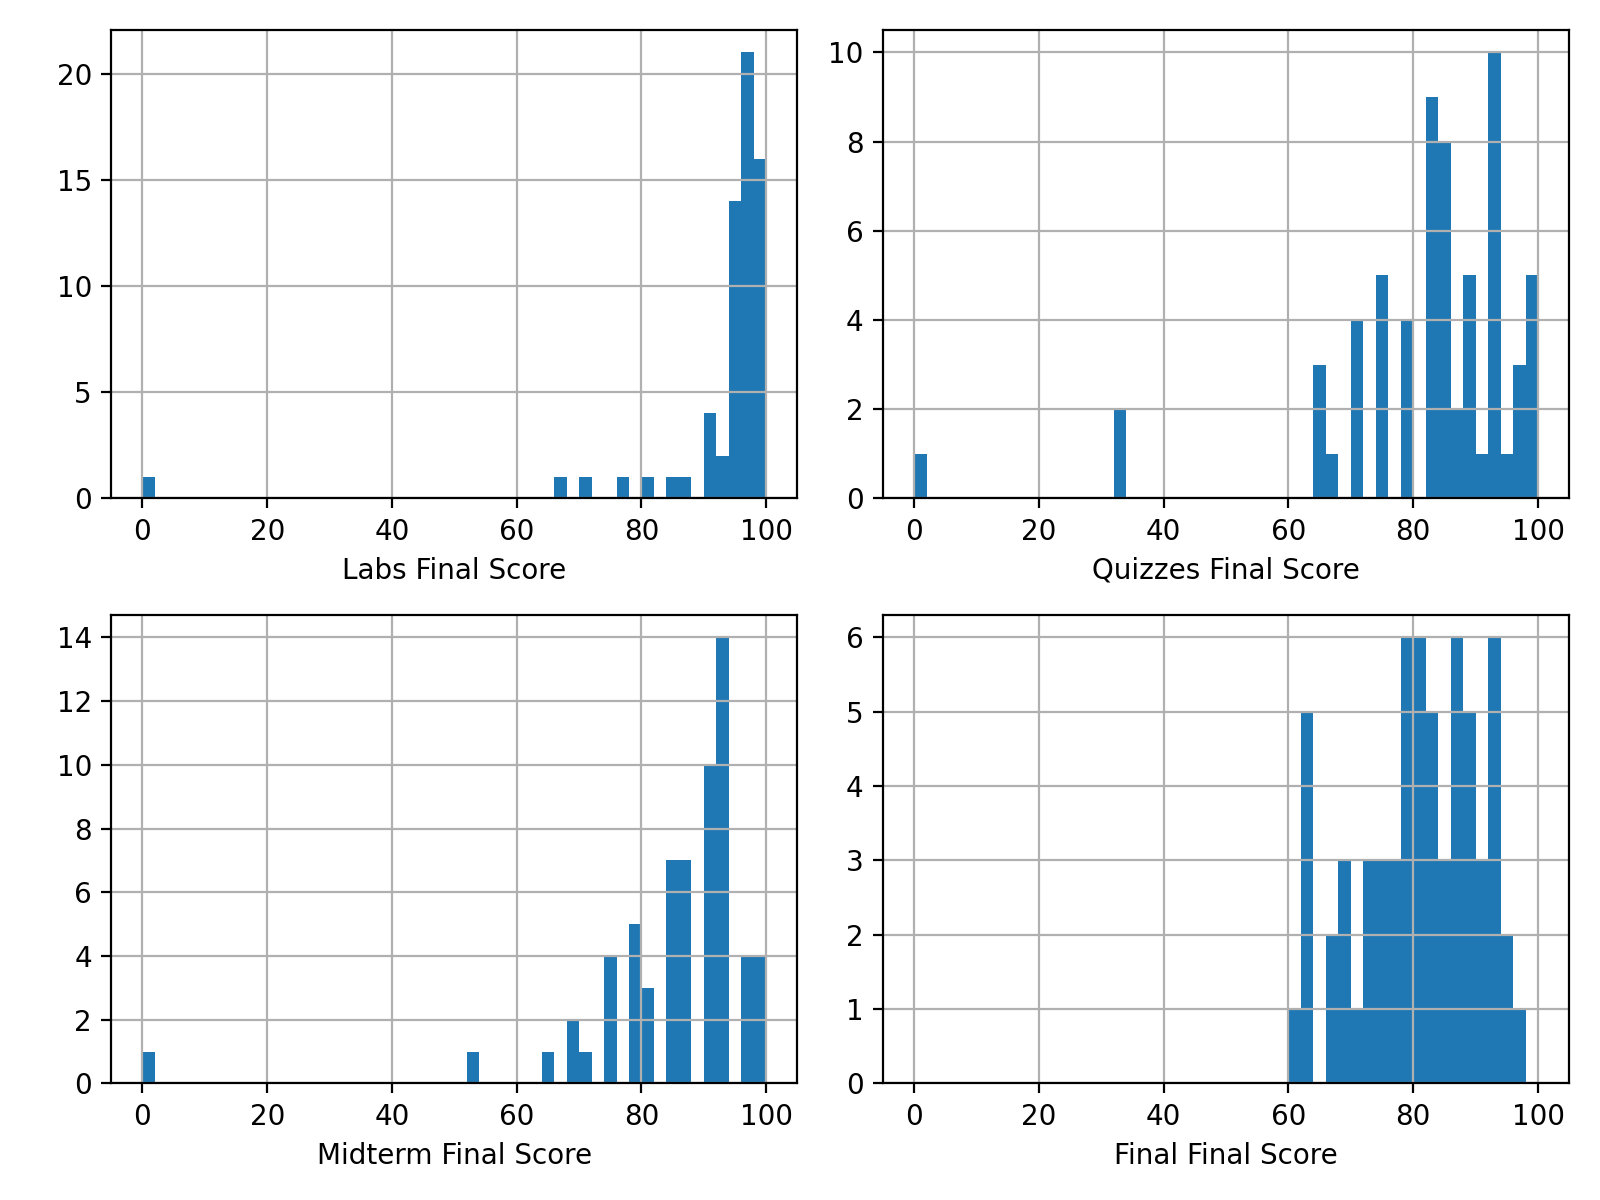
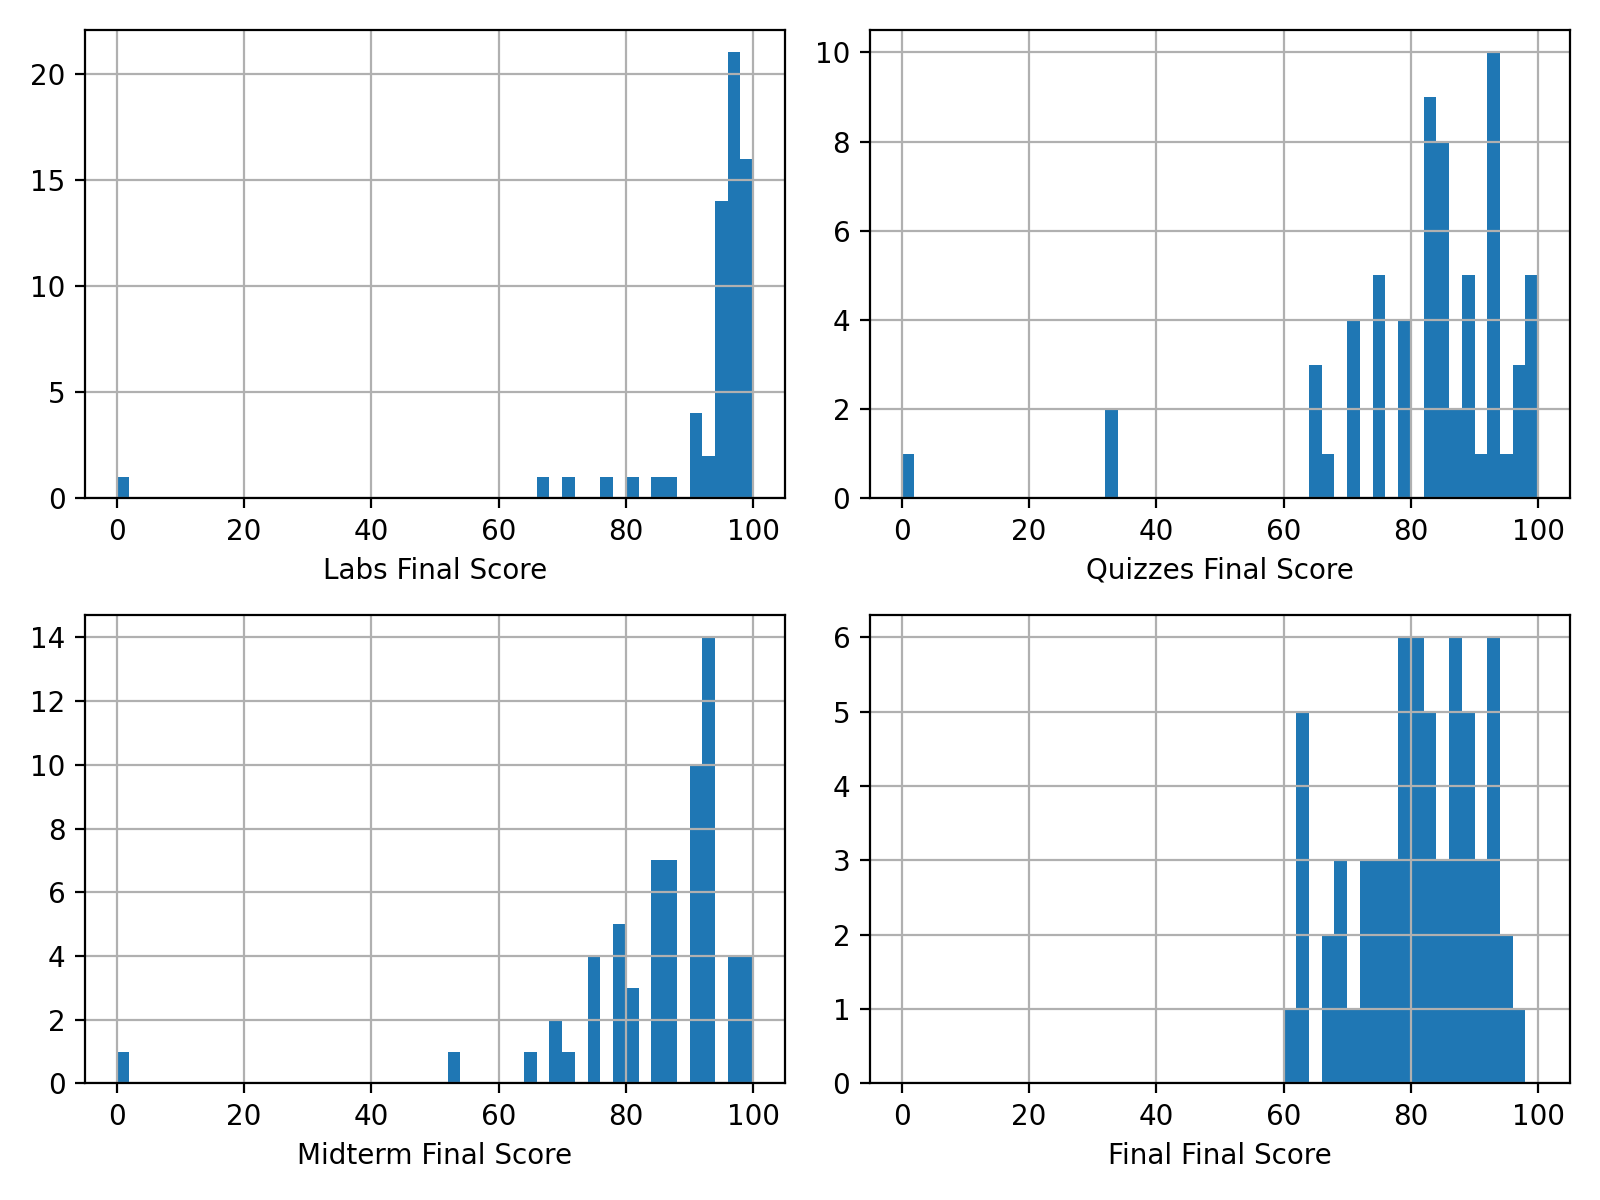
Move savefig() until after loop to get resized versions.

diff --git a/GradeAna.py b/GradeAna.py
@@ -100,7 +100,7 @@ def GradeAna():
 
 
     # Make a histograms
-    f,ax = plt.subplots(2,2,figsize=figsize)
+    f1,ax = plt.subplots(2,2,figsize=figsize)
 
     for i,h in enumerate(hists):
         row = i//2
@@ -112,15 +112,13 @@ def GradeAna():
         p.grid()
     # Now start the tkinter window.  For some reason if I do this before the filedialog
     # it causes trouble.    
-    plt.tight_layout()
+    plt.tight_layout()        # keeps things from overlapping
     # Use the resizable version of Tk()
-    root = ResizeableTk(f,"Histograms")
-    f.savefig('GradeAna1.png')
-    
-    # root.mainloop()
+    root = ResizeableTk(f1,"Histograms")
 
+    
     # Make the scatterplots
-    f,ax = plt.subplots(2,2,figsize=figsize)
+    f2,ax = plt.subplots(2,2,figsize=figsize)
 
 
     for i,pair in enumerate(scatters):
@@ -148,14 +146,15 @@ def GradeAna():
     bar.grid(True,which='major',color='b',linestyle='-')
     bar.grid(True,which='minor',color='r',linestyle='--')
     bar.set_xlabel(cols[barchart[0]])
-    
-    plt.tight_layout()
-    root = ResizeableTk(f,"Scatter Plots and Bar Chart")
-
-    f.savefig('GradeAna2.png')
-
+    plt.tight_layout()        # keeps things from overlapping
+    # Use the resizable Tk()
+    root = ResizeableTk(f2,"Scatter Plots and Bar Chart")
 
     tk.mainloop()
+    # Save the figures at the end to get the resized versions!
+    f1.savefig("GradeAna1.png")
+    f2.savefig("GradeAna2.png")
+    
 #####################################################################################
 # Routine to load plot definitions from GradeAna_User file
 #

diff --git a/README.md b/README.md
@@ -45,4 +45,5 @@ v2.0 	14-MAR-2024 E. Prebys   Reads exported gradebook directly.
 v3.0    17-DEC-2025 E. Prebys	Major changes.  Moved user stuff to GradeAna_User
 v4.0	18-DEC-2025 E. Prebys   Made configuration file selectable.  Use indices instead
                                 of names for the plots.
+v4.1    19-DEC-2025 E. Prebys   Made figures resizeable.  Fixed Windows problems.
 			
